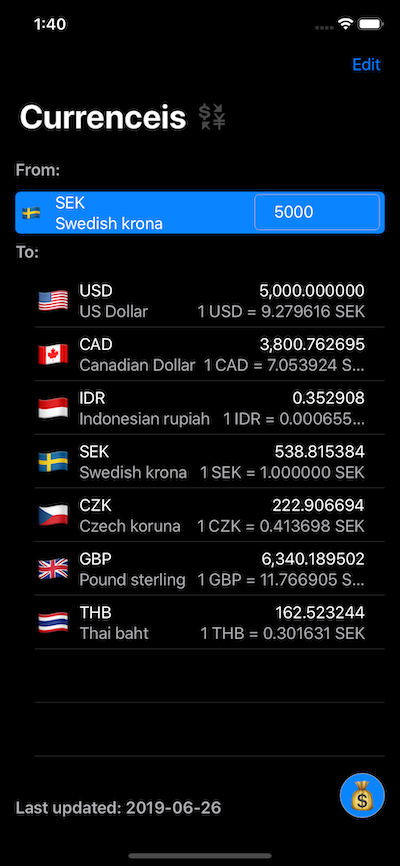
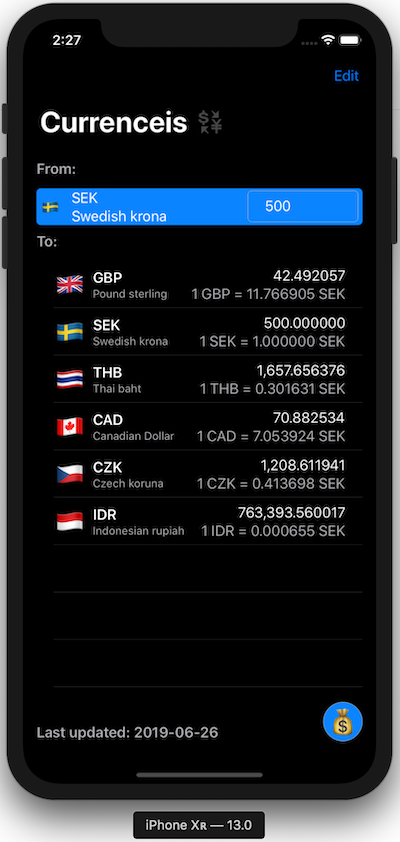
Updated screenshots and converter rate.

diff --git a/Currency-SwiftUI/Currency-SwiftUI/CurrencyItemView.swift b/Currency-SwiftUI/Currency-SwiftUI/CurrencyItemView.swift
@@ -34,7 +34,7 @@ struct CurrencyItemView: View {
     var body: some View {
         let currency = self.currency
         let converstionRate = currency.rate / userData.baseCurrency.rate
-        let totalAmount = baseAmount * currency.rate
+        let totalAmount = baseAmount * ( userData.baseCurrency.rate / currency.rate)
 
         return HStack {
             if self.isEditing {
@@ -60,8 +60,8 @@ struct CurrencyItemView: View {
                     Text(currency.flag).font(.largeTitle)
                     // Code and name
                     VStack(alignment: .leading){
-                        Text(currency.code)
-                        Text(currency.name).color(.gray)
+                        Text(currency.code).font(.headline)
+                        Text(currency.name).font(.footnote).color(.gray)
                     }
                     Spacer()
                     // Amount and conversion

diff --git a/Currency-SwiftUI/Currency-SwiftUI/ConverterView.swift b/Currency-SwiftUI/Currency-SwiftUI/ConverterView.swift
@@ -61,7 +61,6 @@ struct ConverterView : View {
                 }.background(Color.blue).cornerRadius(5)
                 Text("To:").bold().color(.gray)
                 List {
-                    
                     // TODO: should filter out BaseCurrency from list
                     ForEach(userData.userCurrency) { currency in
                         	CurrencyItemView(currency: currency, baseAmount: doubleValue, isEditing: self.$isEditing).tapAction {
